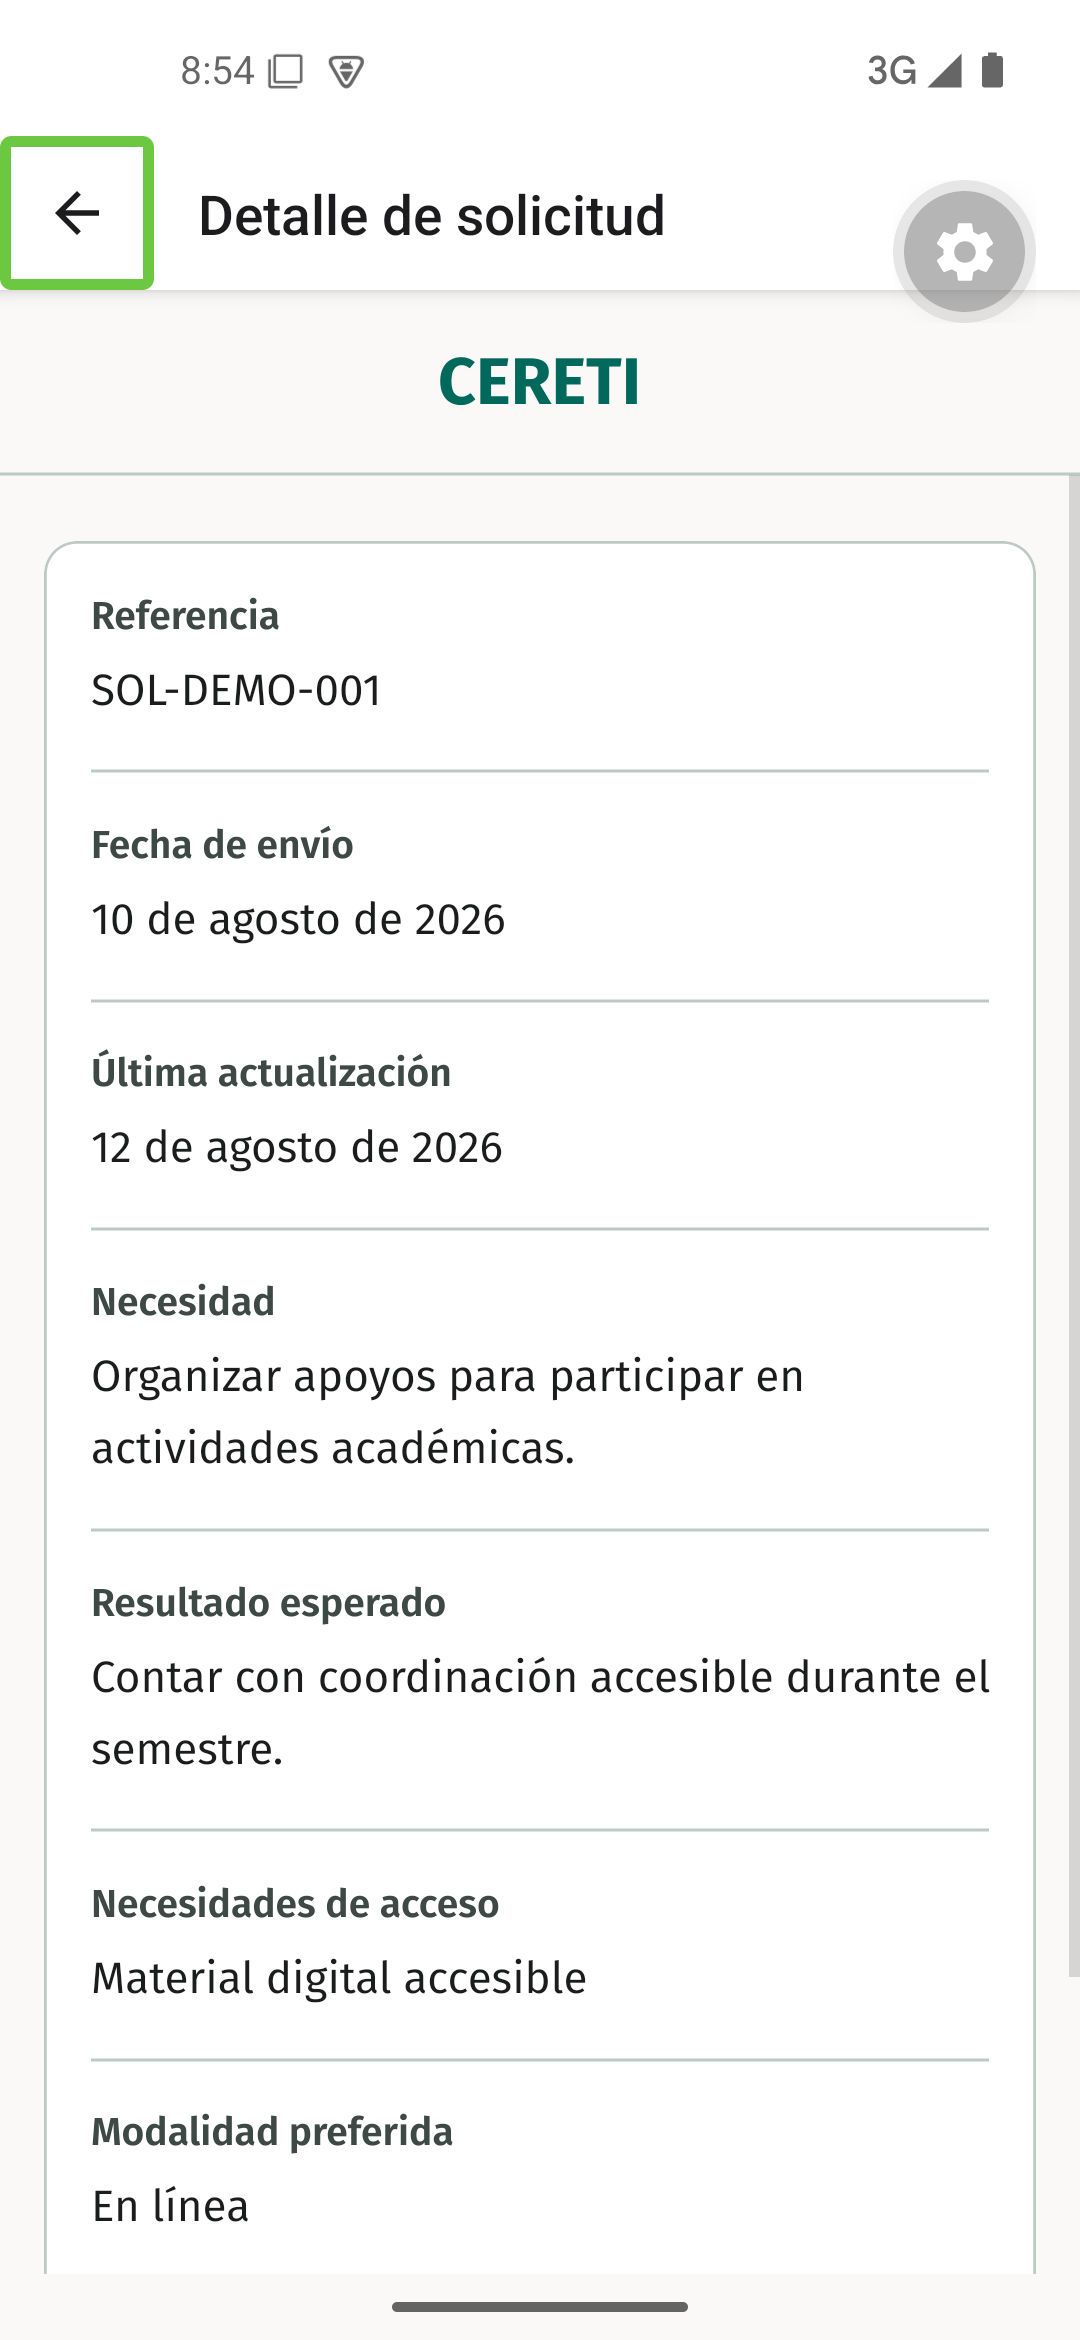
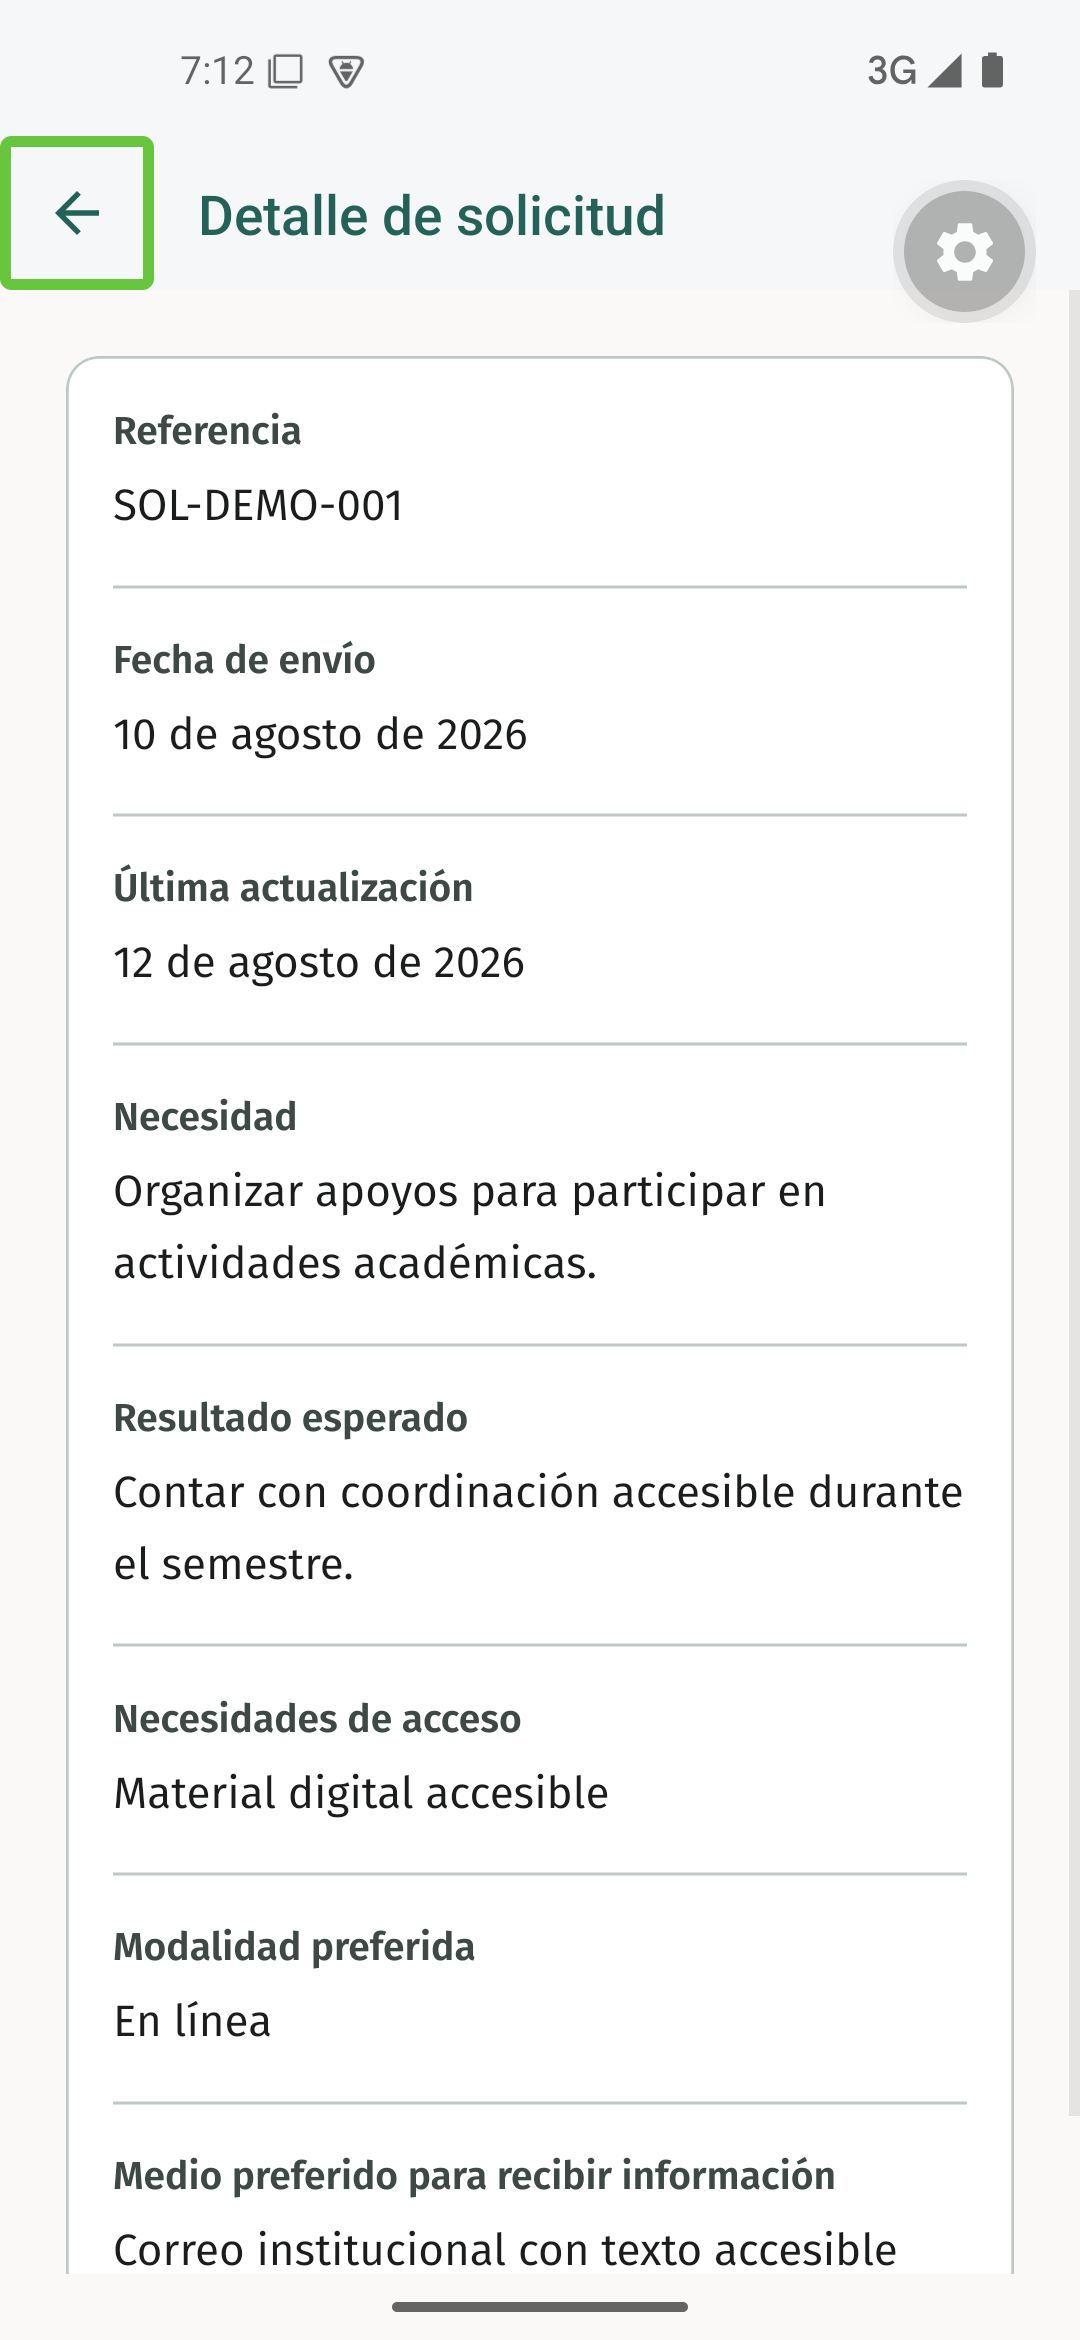
fix(mobile): unificar encabezados nativos

diff --git a/apps/mobile/app/(protected)/estudiante/solicitudes/_layout.tsx b/apps/mobile/app/(protected)/estudiante/solicitudes/_layout.tsx
@@ -2,6 +2,7 @@ import { Stack } from "expo-router";
 
 import { createMockStudentAreaReader } from "../../../../src/infrastructure/mock-student-area-reader";
 import { StudentAreaProvider } from "../../../../src/presentation/estudiante/student-area-provider";
+import { appHeaderOptions } from "../../../../src/presentation/navigation/app-header-options";
 
 const demoMode = process.env.EXPO_PUBLIC_STUDENT_AREA_DEMO_MODE;
 const parsedDelay = Number.parseInt(process.env.EXPO_PUBLIC_STUDENT_AREA_DELAY_MS ?? "0", 10);
@@ -14,9 +15,19 @@ const defaultReader = createMockStudentAreaReader({
 export default function StudentRequestsLayout() {
   return (
     <StudentAreaProvider reader={defaultReader}>
-      <Stack screenOptions={{ headerBackTitle: "Volver" }}>
-        <Stack.Screen name="index" options={{ title: "Mis solicitudes" }} />
-        <Stack.Screen name="[requestId]" options={{ title: "Detalle de solicitud" }} />
+      <Stack screenOptions={appHeaderOptions}>
+        <Stack.Screen
+          name="index"
+          options={{ ...appHeaderOptions, headerTitle: "Mis solicitudes", headerBackVisible: true }}
+        />
+        <Stack.Screen
+          name="[requestId]"
+          options={{
+            ...appHeaderOptions,
+            headerTitle: "Detalle de solicitud",
+            headerBackVisible: true,
+          }}
+        />
       </Stack>
     </StudentAreaProvider>
   );

diff --git a/apps/mobile/src/presentation/estudiante/student-screen.tsx b/apps/mobile/src/presentation/estudiante/student-screen.tsx
@@ -25,16 +25,10 @@ export function StudentScreen({ scrollRef, children, ...introduction }: StudentS
   return (
     <StudentFonts>
       <SafeAreaView className="flex-1 bg-student-background" edges={["left", "right", "bottom"]}>
-        <View className="items-center border-b border-student-border p-4">
-          <StudentText weight="bold" className="text-student-primary text-2xl leading-[34px]">
-            CERETI
-          </StudentText>
-        </View>
         <ScrollView
           ref={scrollRef}
           keyboardShouldPersistTaps="handled"
-          contentInsetAdjustmentBehavior="automatic"
-          contentContainerClassName="grow w-full max-w-[600px] self-center px-4 py-6 gap-8"
+          contentContainerClassName="grow w-full max-w-[600px] self-center p-6 gap-4"
         >
           {introduction.showIntroduction === false ? null : (
             <View className="gap-2">

diff --git a/apps/mobile/app/_layout.tsx b/apps/mobile/app/_layout.tsx
@@ -6,6 +6,7 @@ import {
   NavigationSessionProvider,
   useNavigationSession,
 } from "../src/presentation/navigation/session";
+import { appHeaderOptions } from "../src/presentation/navigation/app-header-options";
 
 function RootNavigator() {
   const { role } = useNavigationSession();
@@ -19,7 +20,7 @@ function RootNavigator() {
       <Stack.Protected guard={role !== null}>
         <Stack.Screen name="(protected)" options={{ headerShown: false }} />
       </Stack.Protected>
-      <Stack.Screen name="+not-found" options={{ title: "Página no encontrada" }} />
+      <Stack.Screen name="+not-found" options={appHeaderOptions} />
     </Stack>
   );
 }

diff --git a/apps/mobile/src/presentation/components/screen.tsx b/apps/mobile/src/presentation/components/screen.tsx
@@ -19,7 +19,6 @@ export function Screen({
         keyboardShouldPersistTaps="handled"
         contentContainerStyle={styles.content}
       >
-        <Text style={styles.brand}>CERETIME</Text>
         <Text accessibilityRole="header" style={styles.title}>
           {title}
         </Text>
@@ -53,12 +52,6 @@ const styles = StyleSheet.create({
     alignSelf: "center",
     padding: 24,
     gap: 16,
-  },
-  brand: {
-    color: "#246259",
-    fontSize: 14,
-    fontWeight: "700",
-    letterSpacing: 2,
   },
   title: { color: "#182C31", fontSize: 30, fontWeight: "700" },
   description: {

diff --git a/apps/mobile/src/presentation/estudiante/new-request-screen.tsx b/apps/mobile/src/presentation/estudiante/new-request-screen.tsx
@@ -1,4 +1,3 @@
-import { Stack } from "expo-router";
 import { useRef } from "react";
 import { KeyboardAvoidingView, ScrollView } from "react-native";
 import { useHeaderHeight } from "expo-router/react-navigation";
@@ -26,7 +25,6 @@ export default function NewRequestScreen({
       behavior={process.env.EXPO_OS === "ios" ? "padding" : undefined}
       keyboardVerticalOffset={headerHeight}
     >
-      <Stack.Screen options={{ title: "Nueva solicitud" }} />
       <StudentScreen
         scrollRef={scrollRef}
         title="Solicitud de acompañamiento"

diff --git a/apps/mobile/app/(protected)/estudiante/_layout.tsx b/apps/mobile/app/(protected)/estudiante/_layout.tsx
@@ -1,10 +1,15 @@
 import { Stack } from "expo-router";
 
 import RoleLayout from "../../../src/presentation/navigation/role-layout";
+import { appHeaderOptions } from "../../../src/presentation/navigation/app-header-options";
 
 export default function StudentLayout() {
   return (
     <RoleLayout>
+      <Stack.Screen
+        name="nueva-solicitud"
+        options={{ ...appHeaderOptions, headerBackVisible: true }}
+      />
       <Stack.Screen name="solicitudes" options={{ headerShown: false }} />
     </RoleLayout>
   );

diff --git a/apps/mobile/src/presentation/navigation/role-layout.tsx b/apps/mobile/src/presentation/navigation/role-layout.tsx
@@ -1,10 +1,11 @@
 import { Stack } from "expo-router";
 import type { PropsWithChildren } from "react";
+import { appHeaderOptions } from "./app-header-options";
 
 export default function RoleLayout({ children }: PropsWithChildren) {
   return (
-    <Stack>
-      <Stack.Screen name="index" options={{ title: "Inicio", headerBackVisible: false }} />
+    <Stack screenOptions={appHeaderOptions}>
+      <Stack.Screen name="index" />
       {children}
     </Stack>
   );

diff --git a/apps/mobile/src/presentation/navigation/app-header-options.ts b/apps/mobile/src/presentation/navigation/app-header-options.ts
@@ -1,0 +1,12 @@
+import type { NativeStackNavigationOptions } from "expo-router";
+
+export const appHeaderOptions = {
+  headerShown: true,
+  headerTitle: "CERETIME",
+  headerBackTitle: "Volver",
+  headerBackButtonDisplayMode: "minimal",
+  headerBackVisible: false,
+  headerTintColor: "#246259",
+  headerStyle: { backgroundColor: "#F5F7F8" },
+  headerShadowVisible: false,
+} satisfies NativeStackNavigationOptions;

diff --git a/apps/mobile/__tests__/app-header-options.test.ts b/apps/mobile/__tests__/app-header-options.test.ts
@@ -1,0 +1,12 @@
+import { appHeaderOptions } from "@/presentation/navigation/app-header-options";
+
+test("usa un header nativo común para las vistas mobile", () => {
+  expect(appHeaderOptions).toMatchObject({
+    headerShown: true,
+    headerTitle: "CERETIME",
+    headerBackTitle: "Volver",
+    headerBackVisible: false,
+    headerTintColor: "#246259",
+    headerShadowVisible: false,
+  });
+});

diff --git a/apps/mobile/app/(public)/_layout.tsx b/apps/mobile/app/(public)/_layout.tsx
@@ -1,9 +1,6 @@
 import { Stack } from "expo-router";
+import { appHeaderOptions } from "../../src/presentation/navigation/app-header-options";
 
 export default function PublicLayout() {
-  return (
-    <Stack>
-      <Stack.Screen name="login" options={{ title: "Acceso de prueba" }} />
-    </Stack>
-  );
+  return <Stack screenOptions={appHeaderOptions} />;
 }
